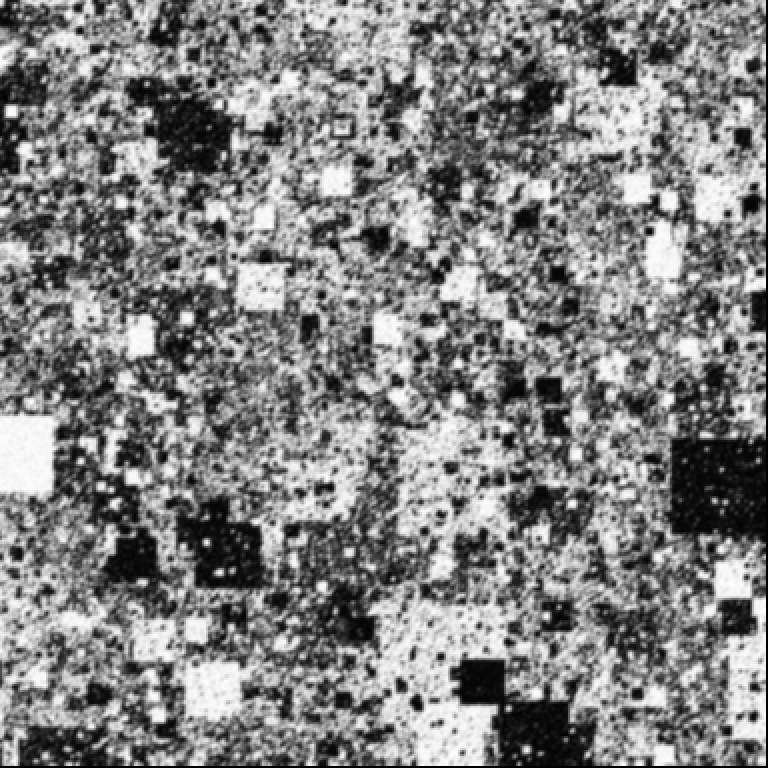
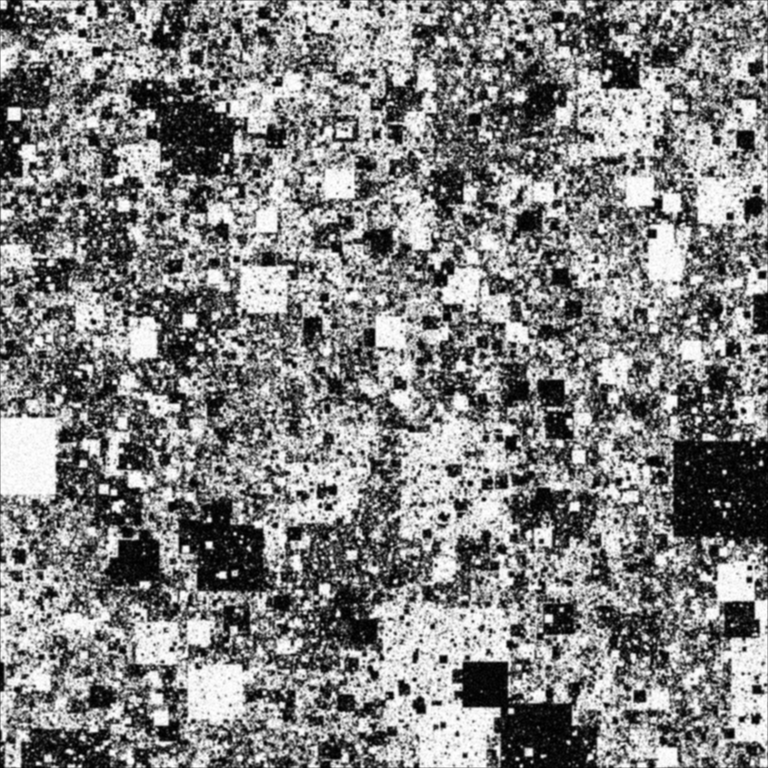
test

diff --git a/prova.py b/prova.py
@@ -250,7 +250,7 @@ def map_images(image_lr, shift_x, shift_y, hr_size):
     return mapped_image_hr
 
 
-def mapping(images_lr, M):
+def mapping2(images_lr, M):
 
     # Inizializza la griglia HR
     hr_height = images_lr[0].shape[0] 
@@ -282,14 +282,55 @@ def mapping(images_lr, M):
     for hr_image in hr_images:
         grid += hr_image
 
-    return grid/len(hr_images)
+    #return grid/len(hr_images)
+    return grid
+
+def mapping(images):
+    #Sovrapposizione a partire dalla metà della prima casella
+    riga_di_partenza = images[0].shape[0] // 2
+    colonna_di_partenza = images[0].shape[1] // 2
 
 
+    # Dimensioni della matrice sovrapposta
+    righe_sovrapposte = images[0].shape[0] * 2 + 1
+    colonne_sovrapposte = images[0].shape[1] * 2 + 1
 
-def gridHR(image):
+    # Creazione della matrice sovrapposta con zeri
+    matrice_sovrapposta = np.zeros((righe_sovrapposte, colonne_sovrapposte))
+
+    matrice1 = images[0]
+    matrice2 = images[1]
+    matrice3 = images[2]
+    matrice4 = images[3]
+
+    for i in range(righe_sovrapposte):
+        for j in range(colonne_sovrapposte):
+            if i == 0 and j == 0:
+                matrice_sovrapposta[i, j] = np.squeeze(matrice1[i // 2, j // 2]) / 4
+            elif i == 0 and j == colonne_sovrapposte-1:
+                matrice_sovrapposta[i, j] = np.squeeze(matrice2[i, (j-1) // 2]) / 4 
+            elif i == righe_sovrapposte -1 and j == colonne_sovrapposte-1:
+                matrice_sovrapposta[i, j] = np.squeeze(matrice4[(i-1) // 2, (j-1) // 2]) / 4
+            elif i == righe_sovrapposte-1 and j == 0:
+                matrice_sovrapposta[i, j] = np.squeeze(matrice3[(i-1) // 2, j // 2]) / 4
+            elif i == 0:
+                matrice_sovrapposta[i, j] = np.squeeze(matrice1[i// 2, (j-1) // 2]) / 4 + np.squeeze(matrice2[i // 2, j // 2]) / 4
+            elif j == 0:
+                matrice_sovrapposta[i, j] = np.squeeze(matrice1[(i-1)// 2, j// 2]) / 4 + np.squeeze(matrice3[i // 2, j // 2]) / 4
+            elif j == colonne_sovrapposte-1:
+                matrice_sovrapposta[i, j] = np.squeeze(matrice2[i // 2, (j-1) // 2]) / 4 + np.squeeze(matrice4[(i-1) // 2, (j-1) // 2]) / 4
+            elif i == righe_sovrapposte-1:
+                matrice_sovrapposta[i, j] = np.squeeze(matrice3[(i-1) // 2, j // 2]) / 4 + np.squeeze(matrice4[(i-1) // 2, (j-1) // 2]) / 4
+            else:
+                matrice_sovrapposta[i, j] = np.squeeze(matrice1[i//2, j // 2]) / 4 + np.squeeze(matrice2[i // 2, (j-1) // 2]) / 4 + np.squeeze(matrice3[(i-1) // 2, j // 2]) / 4 + np.squeeze(matrice4[(i-1)//2, (j-1) // 2]) / 4
+            
+    return matrice_sovrapposta
+
+
+"""
+def gridHR2(image):
     # Taglia l'immagine di sovrapposizione
     overlapped_image = image[1:image.shape[0], 1:image.shape[1]]
-
 
     # Dimensioni dell'immagine HR risultante
     hr_width = 768
@@ -313,6 +354,21 @@ def gridHR(image):
 
     # Ora hr_image contiene l'immagine HR risultante
     return hr_image
+"""
+
+def gridHR(matrice_sovrapposta):
+
+    # Dimensioni della matrice sovrapposta
+    righe_sovrapposte = matrice_sovrapposta.shape[0] 
+    colonne_sovrapposte = matrice_sovrapposta.shape[1]
+
+    #Crea matrice finale HR:
+    HR = np.zeros((righe_sovrapposte -1, colonne_sovrapposte-1))
+    for i in range(righe_sovrapposte-1):
+        for j in range(colonne_sovrapposte-1):
+            HR[i, j] = (matrice_sovrapposta[i, j] + matrice_sovrapposta[i, j+1] + matrice_sovrapposta[i+1, j] + matrice_sovrapposta[i+1, j+1])/4
+
+    return HR
 
 
 # IMAGES SELECTION BASED ON SFME -------------------------------------------------------------------------------------------------
@@ -429,11 +485,19 @@ print("\n")
 #filter_distance(images_lr)
 
 #MULTI-FRAME IMAGES RECONSTRUCTION ----------------------------------------------------------------------------------------
+for i, image in enumerate(noisy_images_lr):
+    print(image[0][0])
 
+image = mapping(noisy_images_lr)
+print(image[0][0])
+print(image[0][1])
+print(image[1][0])
+print(image[1][1])
 
-image = mapping(noisy_images_lr, M)
 result_image = gridHR(image)
-print("Size: ", result_image.shape)
+print("\n", result_image[0][0]) 
+
+
 cv2.imwrite('immagine_risultante.png', result_image)
 
 # Visualizza l'immagine
